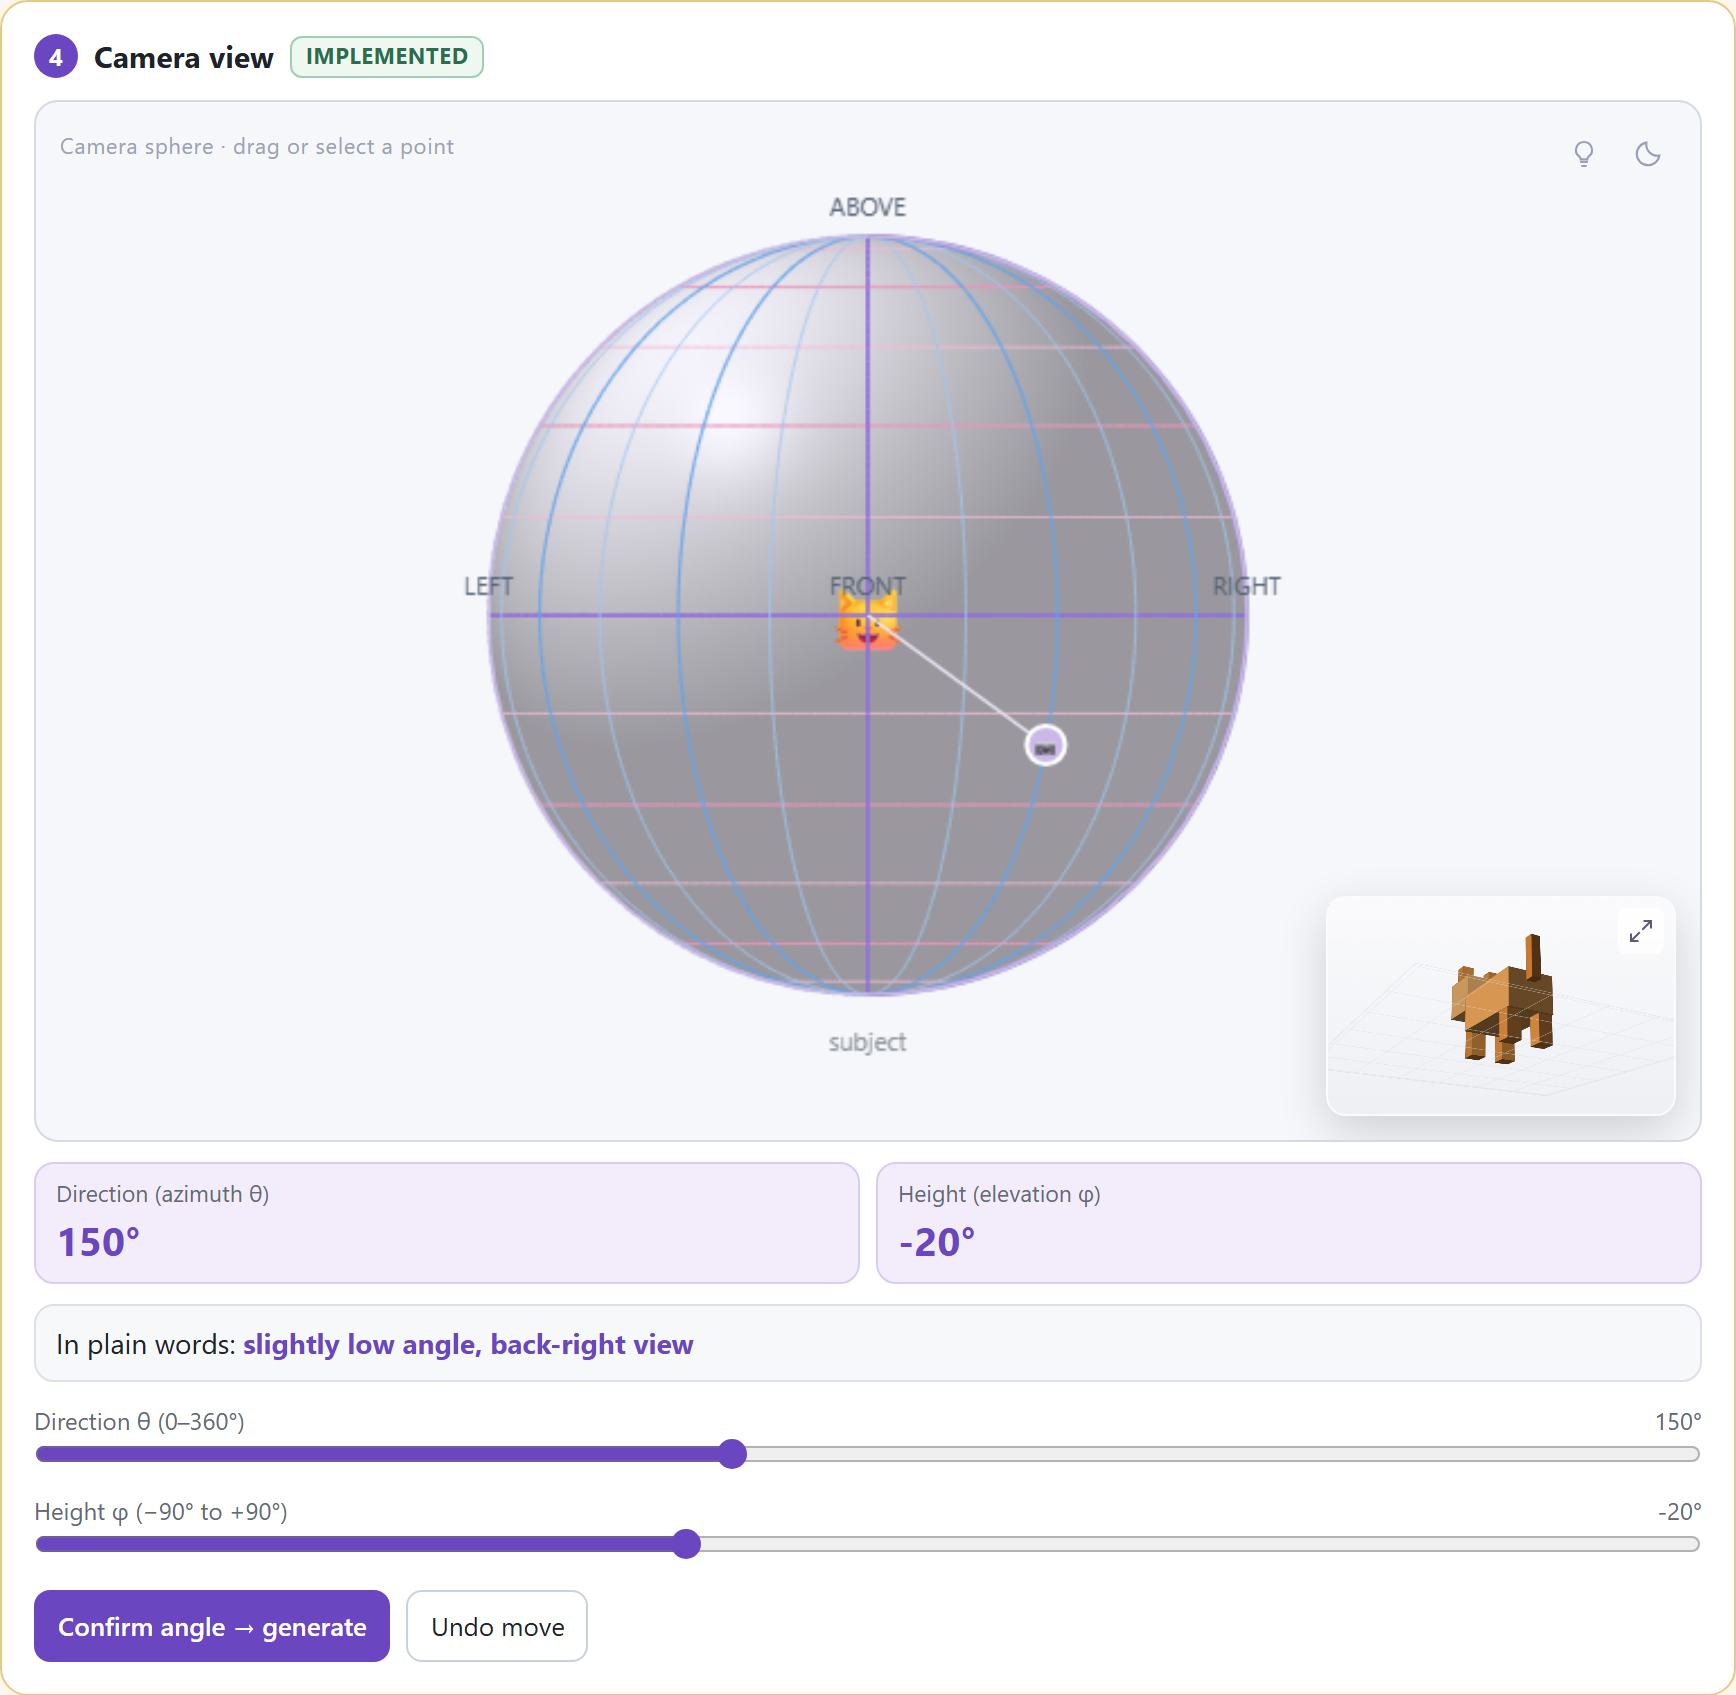
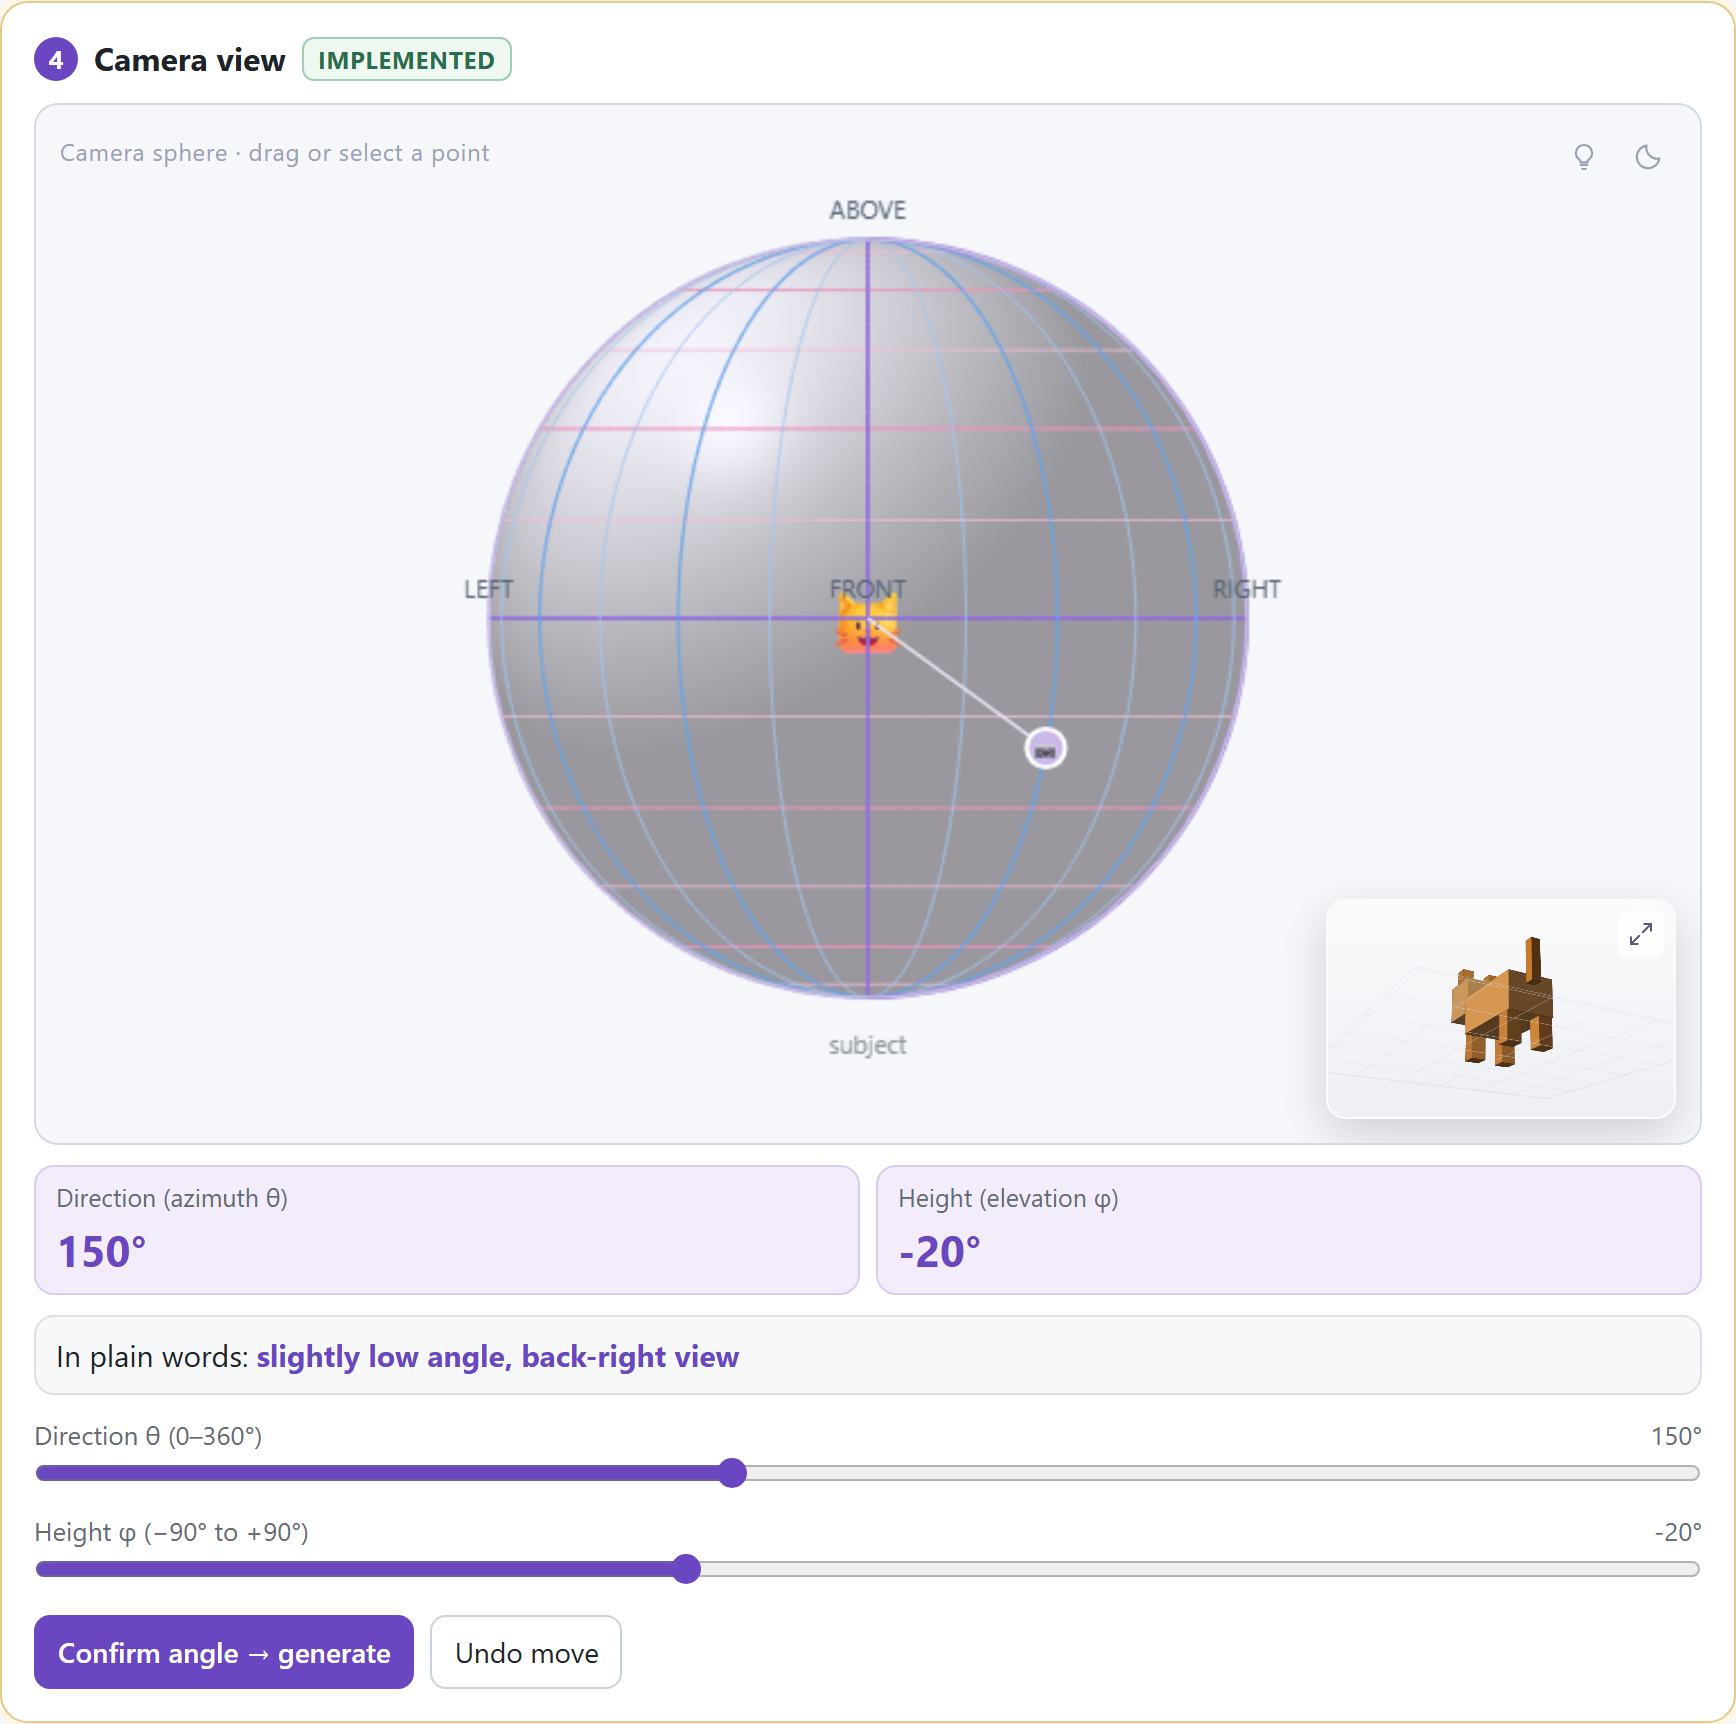
Slightly larger text throughout and a larger cat in the result image
Thumbnails keep their scale; the compact legend stays on one row.
Re-shoot the storyboards.

diff --git a/prototype/index.html b/prototype/index.html
@@ -14,36 +14,36 @@
     --muted:#f6f8fa;
   }
   *{box-sizing:border-box;}
-  body{margin:0;font-family:"Segoe UI",Arial,"Microsoft YaHei",sans-serif;color:var(--ink);background:var(--page);font-size:14px;line-height:1.5;}
+  body{margin:0;font-family:"Segoe UI",Arial,"Microsoft YaHei",sans-serif;color:var(--ink);background:var(--page);font-size:15px;line-height:1.5;}
   .wrap{max-width:1120px;margin:0 auto;padding:20px 16px 48px;}
   header{position:relative;padding-right:56px;}
-  #languageToggle{position:absolute;right:0;top:0;width:40px;height:40px;padding:0;display:flex;justify-content:center;align-items:center;font-size:21px;border-radius:50%;}
-  header h1{font-size:21px;margin:0 0 2px;}
-  header p{margin:0;color:var(--sub);font-size:13px;}
-  .legend{display:flex;flex-wrap:wrap;gap:6px 18px;margin:12px 0 16px;padding:10px 12px;background:var(--bg);border:1px solid var(--line);border-radius:10px;font-size:12.5px;color:var(--sub);}
-  .tag{display:inline-block;border-radius:6px;font-size:11px;font-weight:700;letter-spacing:.03em;text-transform:uppercase;padding:1px 7px;border:1px solid;vertical-align:1px;white-space:nowrap;}
+  #languageToggle{position:absolute;right:0;top:0;width:40px;height:40px;padding:0;display:flex;justify-content:center;align-items:center;font-size:22.5px;border-radius:50%;}
+  header h1{font-size:22.5px;margin:0 0 2px;}
+  header p{margin:0;color:var(--sub);font-size:14px;}
+  .legend{display:flex;flex-wrap:wrap;gap:6px 18px;margin:12px 0 16px;padding:10px 12px;background:var(--bg);border:1px solid var(--line);border-radius:10px;font-size:13.5px;color:var(--sub);}
+  .tag{display:inline-block;border-radius:6px;font-size:12px;font-weight:700;letter-spacing:.03em;text-transform:uppercase;padding:1px 7px;border:1px solid;vertical-align:1px;white-space:nowrap;}
   .tag.impl{background:var(--green-bg);color:var(--green);border-color:var(--green-line);}
   .tag.sim{background:var(--amber-bg);color:var(--amber);border-color:var(--amber-line);}
   .grid{display:grid;grid-template-columns:minmax(0,1fr) minmax(0,1fr);grid-template-areas:"prompt result" "under result" "under versions" "camera camera";gap:16px;}
   .grid > section[aria-labelledby="h1"]{grid-area:prompt;} .grid > section[aria-labelledby="h2"]{grid-area:under;} .grid > section[aria-labelledby="h3"]{grid-area:result;} .grid > section[aria-labelledby="h5"]{grid-area:versions;}
   .card{background:var(--bg);border:1px solid var(--line);border-radius:14px;padding:16px;min-width:0;}
     .card.attention{border-color:var(--amber-line);box-shadow:0 0 0 3px var(--amber-bg);}
-  .card h2{font-size:15px;margin:0 0 10px;display:flex;align-items:center;gap:8px;flex-wrap:wrap;}
-  .num{display:inline-flex;align-items:center;justify-content:center;width:22px;height:22px;border-radius:50%;background:var(--purple);color:#fff;font-size:12px;font-weight:700;flex:0 0 auto;}
+  .card h2{font-size:16px;margin:0 0 10px;display:flex;align-items:center;gap:8px;flex-wrap:wrap;}
+  .num{display:inline-flex;align-items:center;justify-content:center;width:22px;height:22px;border-radius:50%;background:var(--purple);color:#fff;font-size:13px;font-weight:700;flex:0 0 auto;}
   textarea{width:100%;min-height:74px;font:inherit;border:1px solid #c9d1d9;border-radius:10px;padding:10px 12px;resize:vertical;color:var(--ink);}
   textarea:focus,button:focus-visible,input:focus-visible,select:focus-visible,.thumb:focus-visible{outline:2px solid var(--purple);outline-offset:2px;}
   .row{display:flex;flex-wrap:wrap;gap:8px;align-items:center;}
-  button{font:inherit;font-size:13px;border:1px solid #c9d1d9;background:#fff;color:var(--ink);border-radius:8px;padding:7px 11px;cursor:pointer;}
+  button{font:inherit;font-size:14px;border:1px solid #c9d1d9;background:#fff;color:var(--ink);border-radius:8px;padding:7px 11px;cursor:pointer;}
   button:hover{background:#f0f2f5;}
   button.primary{background:var(--purple);border-color:var(--purple);color:#fff;font-weight:600;}
   button.primary:hover{background:#5a3aa8;}
-  button.chip{border-radius:999px;font-size:12.5px;color:var(--sub);text-align:left;}
-  .small{font-size:12px;color:var(--sub);}
+  button.chip{border-radius:999px;font-size:13.5px;color:var(--sub);text-align:left;}
+  .small{font-size:13px;color:var(--sub);}
   .kv{display:grid;grid-template-columns:118px minmax(0,1fr);gap:6px 10px;margin:0 0 10px;}
-  .kv dt{color:var(--sub);font-size:12.5px;}
+  .kv dt{color:var(--sub);font-size:13.5px;}
   .kv dd{margin:0;font-weight:600;overflow-wrap:anywhere;}
-  .kv dd .why{display:block;font-weight:400;color:var(--sub);font-size:12.5px;}
-  .badge{display:inline-block;border-radius:999px;padding:2px 10px;font-size:12px;font-weight:700;border:1px solid;}
+  .kv dd .why{display:block;font-weight:400;color:var(--sub);font-size:13.5px;}
+  .badge{display:inline-block;border-radius:999px;padding:2px 10px;font-size:13px;font-weight:700;border:1px solid;}
   .badge.idle{background:var(--muted);color:var(--sub);border-color:var(--line);}
   .badge.match{background:var(--green-bg);color:var(--green);border-color:var(--green-line);}
   .badge.mismatch{background:var(--red-bg);color:var(--red);border-color:var(--red-line);}
@@ -55,8 +55,8 @@
   .frame{position:relative;border:1px solid var(--line);border-radius:10px;overflow:hidden;background:#f7f8fb;}
   .frame canvas{display:block;width:100%;height:auto;}
   .overlay{position:absolute;left:8px;top:8px;right:8px;display:flex;justify-content:space-between;gap:8px;align-items:flex-start;pointer-events:none;}
-  .pill{background:rgba(255,255,255,.92);border:1px solid var(--line);border-radius:8px;padding:3px 8px;font-size:12px;max-width:72%;}
-  .caption{margin:8px 2px 0;font-size:12.5px;color:var(--sub);}
+  .pill{background:rgba(255,255,255,.92);border:1px solid var(--line);border-radius:8px;padding:3px 8px;font-size:13px;max-width:72%;}
+  .caption{margin:8px 2px 0;font-size:13.5px;color:var(--sub);}
   #sphere{display:block;width:100%;max-width:380px;height:auto;margin:0 auto;cursor:grab;touch-action:none;border-radius:8px;}
   #sphere.dragging{cursor:grabbing;}
   #sphereCard button[aria-pressed="true"]{background:#6b46c1;color:#fff;}
@@ -67,10 +67,10 @@
   #cameraPreview:active{cursor:grabbing;}
   .zoom-controls{position:absolute;left:12px;bottom:12px;display:flex;align-items:center;gap:1px;padding:2px;background:rgba(15,19,31,.5);color:#bfc7da;border:0;border-radius:5px;}
   .zoom-controls[hidden]{display:none;}
-  .zoom-controls button{width:23px;height:23px;padding:0;font-size:15px;border:0;background:transparent;color:inherit;border-radius:4px;}
+  .zoom-controls button{width:23px;height:23px;padding:0;font-size:16px;border:0;background:transparent;color:inherit;border-radius:4px;}
   .zoom-controls button:hover{background:#ffffff14;}
   .zoom-controls button:disabled{opacity:.4;cursor:default;}
-  #zoomLevel{min-width:33px;text-align:center;font-size:10px;font-variant-numeric:tabular-nums;}
+  #zoomLevel{min-width:33px;text-align:center;font-size:11px;font-variant-numeric:tabular-nums;}
   #btnNightMode,#btnLightToggle{position:absolute;right:12px;top:12px;width:28px;height:28px;padding:5px;display:grid;place-items:center;border:0;border-radius:0;background:transparent;color:#98a0b3;box-shadow:none;}
   #btnLightToggle{right:44px;}
   #btnNightMode svg,#btnLightToggle svg{width:16px;height:16px;display:block;}
@@ -80,7 +80,7 @@
   .camera-stage.night #btnNightMode:hover,.camera-stage.night #btnLightToggle:hover{color:#fff;}
   .camera-stage.night #btnNightMode[aria-pressed="true"],.camera-stage.night #btnLightToggle[aria-pressed="true"]{color:#e5d5ad;}
   #sphereHint:empty{display:none;}
-  .camera-stage .live-label{position:absolute;left:12px;top:14px;max-width:calc(100% - 64px);color:#9aa2b5;background:transparent;font-size:11px;letter-spacing:.03em;pointer-events:none;}
+  .camera-stage .live-label{position:absolute;left:12px;top:14px;max-width:calc(100% - 64px);color:#9aa2b5;background:transparent;font-size:12px;letter-spacing:.03em;pointer-events:none;}
   .sphere-pip{position:absolute;right:12px;bottom:12px;width:clamp(135px,21%,210px);border:1px solid #ffffff30;border-radius:10px;background:rgba(249,248,253,.96);box-shadow:0 8px 24px #00000028;overflow:hidden;}
   .sphere-pip #sphere{width:100%;max-width:none;}
   .sphere-pip canvas{pointer-events:none;}
@@ -96,38 +96,38 @@
 
   .camera-stage:focus-within{outline:2px solid var(--purple);outline-offset:2px;}
   #sphereCard .row[role="group"]{gap:3px;padding:4px;background:#f1eff6;border:1px solid #e8e3ef;border-radius:9px;}
-  #sphereCard .row[role="group"] button{border:0;background:transparent;padding:6px 10px;border-radius:6px;font-size:12px;color:#686177;}
+  #sphereCard .row[role="group"] button{border:0;background:transparent;padding:6px 10px;border-radius:6px;font-size:13px;color:#686177;}
   #sphereCard .row[role="group"] button[aria-pressed="true"]{background:#fff;color:#5e4496;box-shadow:0 1px 4px #30204312;}
   #btnResetSphere{margin-left:auto;}
   /* Compact layout: Camera view sits in the right column beside Result and Versions. */
   .grid.compact{grid-template-areas:"prompt under" "result camera" "versions camera";}
-  .grid.compact .dots{gap:4px 9px;font-size:11px;}
+  .grid.compact .dots{gap:4px 8px;font-size:11px;}
   .grid.compact .dots i{width:8px;height:8px;margin-right:4px;}
   #candidateChoices[hidden], #candidateLegend[hidden]{display:none;}
-  #candidateChoices button{border-color:#e6c98a;background:#fff8e9;color:#805514;font-size:12px;padding:5px 9px;}
+  #candidateChoices button{border-color:#e6c98a;background:#fff8e9;color:#805514;font-size:13px;padding:5px 9px;}
   #candidateChoices button[aria-pressed="true"]{background:#805514;color:#fff;}
   .sphere-cols{display:grid;grid-template-columns:minmax(0,1fr);gap:10px;}
   .readout{display:grid;grid-template-columns:1fr 1fr;gap:8px;}
   .stat{background:var(--purple-bg);border:1px solid var(--purple-line);border-radius:10px;padding:6px 10px;}
-  .stat .k{font-size:11.5px;color:var(--sub);}
-  .stat .v{font-size:20px;font-weight:700;color:var(--purple);font-variant-numeric:tabular-nums;}
+  .stat .k{font-size:12.5px;color:var(--sub);}
+  .stat .v{font-size:21.5px;font-weight:700;color:var(--purple);font-variant-numeric:tabular-nums;}
   .plain{background:var(--muted);border:1px solid var(--line);border-radius:10px;padding:8px 10px;}
   .plain b{color:var(--purple);}
   input[type=range]{width:100%;accent-color:var(--purple);margin:0;}
-  .slbl{display:flex;justify-content:space-between;font-size:12px;color:var(--sub);}
-  .seclabel{font-size:11.5px;font-weight:700;color:var(--sub);text-transform:uppercase;letter-spacing:.04em;margin:2px 0 4px;}
-  .dots{display:flex;gap:14px;flex-wrap:wrap;font-size:12px;color:var(--sub);justify-content:center;}
+  .slbl{display:flex;justify-content:space-between;font-size:13px;color:var(--sub);}
+  .seclabel{font-size:12.5px;font-weight:700;color:var(--sub);text-transform:uppercase;letter-spacing:.04em;margin:2px 0 4px;}
+  .dots{display:flex;gap:14px;flex-wrap:wrap;font-size:13px;color:var(--sub);justify-content:center;}
   .dots i{width:10px;height:10px;border-radius:50%;display:inline-block;margin-right:5px;}
   .thumbs{display:grid;grid-template-columns:repeat(auto-fill,minmax(126px,1fr));gap:10px;padding:3px 3px 6px;} /* every version stays visible: rows wrap instead of scrolling */
   .thumbs > .small{grid-column:1/-1;}
   .thumb{min-width:0;border:1px solid var(--line);border-radius:10px;padding:6px;background:#fff;cursor:pointer;text-align:left;}
   .thumb.current{border-color:var(--purple);box-shadow:0 0 0 2px var(--purple-bg);}
   .thumb canvas{display:block;width:100%;height:auto;border-radius:6px;background:#f7f8fb;}
-  .thumb .t1{font-weight:700;font-size:12.5px;margin-top:5px;}
-  .thumb .t2{font-size:11.5px;color:var(--sub);}
-  details{margin-top:12px;font-size:12.5px;color:var(--sub);}
+  .thumb .t1{font-weight:700;font-size:13.5px;margin-top:5px;}
+  .thumb .t2{font-size:12.5px;color:var(--sub);}
+  details{margin-top:12px;font-size:13.5px;color:var(--sub);}
   details summary{cursor:pointer;}
-  select{font:inherit;font-size:12.5px;padding:3px 6px;border-radius:6px;border:1px solid #c9d1d9;}
+  select{font:inherit;font-size:13.5px;padding:3px 6px;border-radius:6px;border:1px solid #c9d1d9;}
   @media (max-width:860px){ .grid,.grid.compact{grid-template-columns:minmax(0,1fr);grid-template-areas:"prompt" "under" "result" "camera" "versions";} #btnCompact{display:none;} .kv{grid-template-columns:minmax(0,1fr);gap:0 0;} .kv dd{margin-bottom:6px;} }
 </style>
 </head>

diff --git a/prototype/app.js b/prototype/app.js
@@ -149,7 +149,7 @@
   function renderScene(canvas, theta, phi, opts) {
     opts = opts || {};
     var ctx = canvas.getContext('2d'), w = canvas.width, h = canvas.height;
-    var B = opts.frame || (opts.preview ? cameraFrame() : basis(theta, phi)), base = Math.min(w, h) / (opts.preview ? 4.5 / (previewZoom * userZoom) : 6.2);
+    var B = opts.frame || (opts.preview ? cameraFrame() : basis(theta, phi)), base = Math.min(w, h) / (opts.preview ? 4.5 / (previewZoom * userZoom) : opts.short ? 6.2 : 5.1);
     var cam = [CENTRE[0] + B.dir[0] * CAM_D, CENTRE[1] + B.dir[1] * CAM_D, CENTRE[2] + B.dir[2] * CAM_D];
     function proj(P) {
       var q = [P[0] - CENTRE[0], P[1] - CENTRE[1], P[2] - CENTRE[2]];
